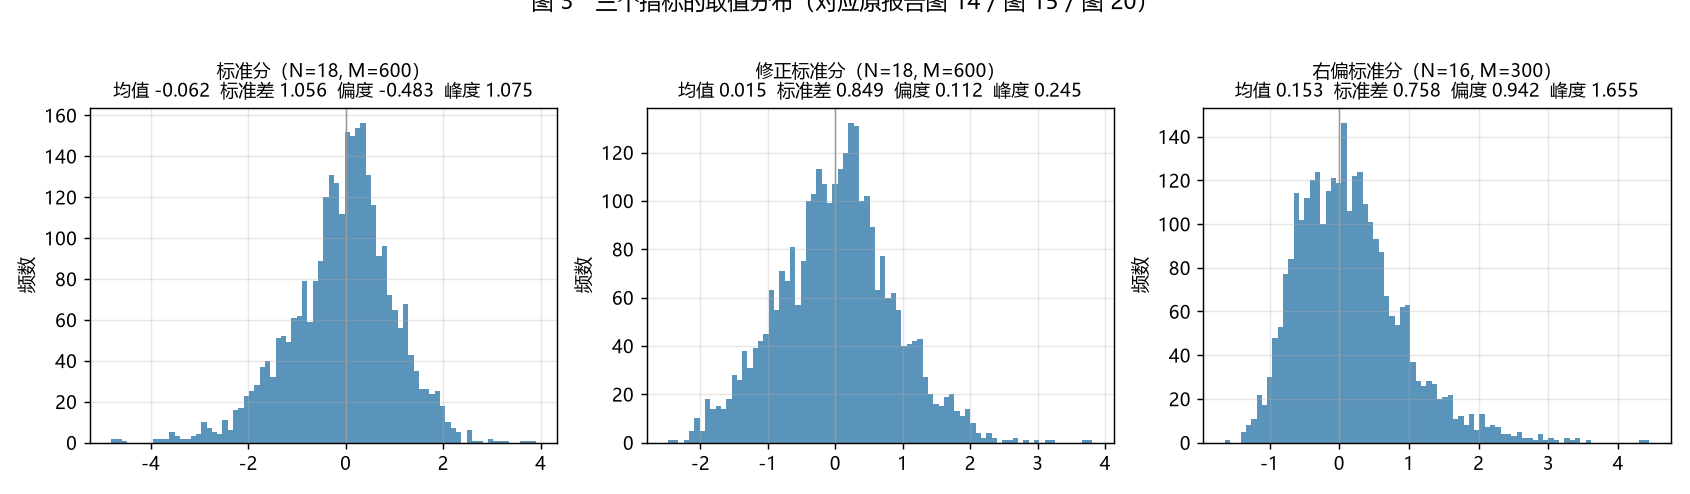
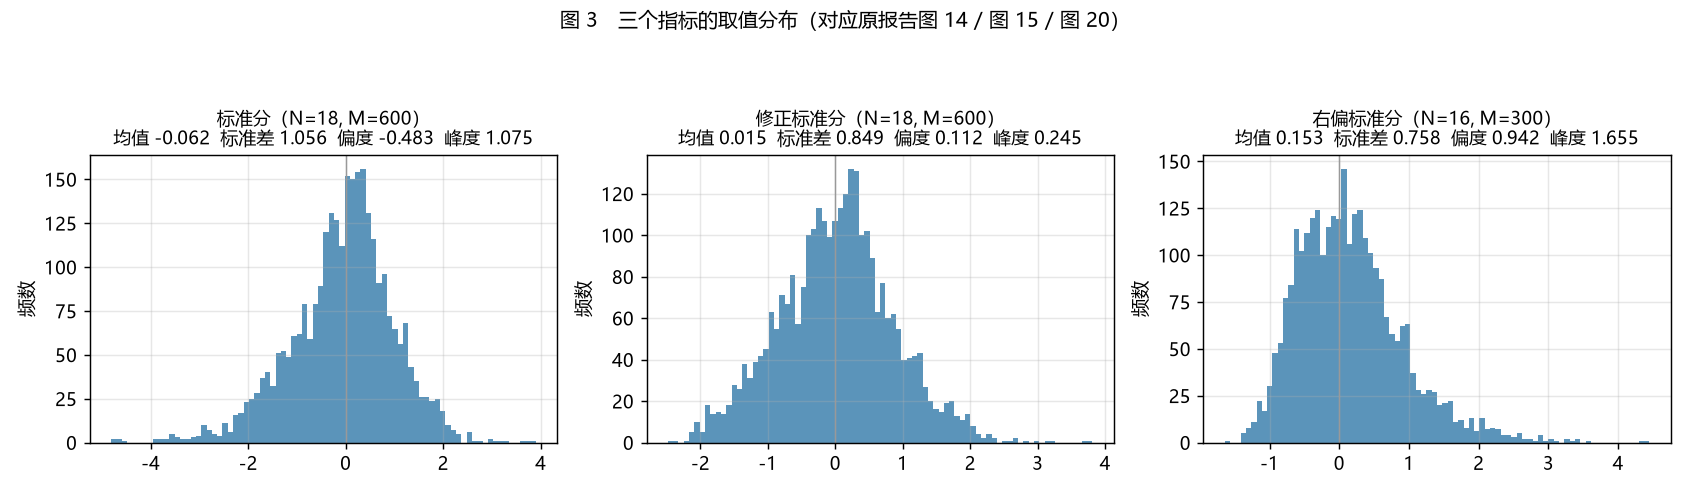
docs: 图表总标题裁切修复；自检补入修正标准分低阶矩
make_figures.py 的总标题改用 tight_layout(rect=...) 预留空间，修复图 3/4/5 标题被裁切的问题。

自检新增修正标准分序列的均值/标准差/偏度/峰度四项对照（峰度 0.245 与原报告精确吻合），表 3 通过率 8/8，总体 66/92。

diff --git a/make_figures.py b/make_figures.py
@@ -49,9 +49,13 @@ def _mpl():
         return None
 
 
-def _save(fig, plt, outdir: Path, name: str) -> Path:
+def _save(fig, plt, outdir: Path, name: str, top: float | None = None) -> Path:
+    """保存图；``top`` 给出为总标题预留的空间（tight_layout 的 rect 上边界）。"""
     path = outdir / name
-    fig.tight_layout()
+    if top is None:
+        fig.tight_layout()
+    else:
+        fig.tight_layout(rect=(0.0, 0.0, 1.0, top))
     fig.savefig(path, dpi=130)
     plt.close(fig)
     print(f"  已生成 {path}")
@@ -120,8 +124,9 @@ def fig_distribution(df, outdir, plt):
                      f"偏度 {v.skew():.3f}  峰度 {v.kurt():.3f}", fontsize=10)
         ax.set_ylabel("频数")
         ax.grid(**GRID)
-    fig.suptitle("图 3　三个指标的取值分布（对应原报告图 14 / 图 15 / 图 20）", y=1.02)
-    return _save(fig, plt, outdir, "fig03_distribution.png")
+    fig.suptitle("图 3　三个指标的取值分布（对应原报告图 14 / 图 15 / 图 20）",
+                 y=0.98, fontsize=11)
+    return _save(fig, plt, outdir, "fig03_distribution.png", top=0.90)
 
 
 # ---------------------------------------------------------------- 图 4
@@ -158,8 +163,8 @@ def fig_predictive(df, outdir, plt, width=0.2, horizon=10):
 
     fig.suptitle(f"图 4　指标对未来 10 日收益的预测性（等宽分箱，箱宽 {width}，"
                  f"共 {len(df)} 个交易日但独立观测仅约 {effective_sample_n(df['close'], horizon)} 个）",
-                 y=1.03, fontsize=11)
-    return _save(fig, plt, outdir, "fig04_predictive.png")
+                 y=0.99, fontsize=11)
+    return _save(fig, plt, outdir, "fig04_predictive.png", top=0.88)
 
 
 # ---------------------------------------------------------------- 图 5
@@ -192,8 +197,8 @@ def fig_m_sensitivity(df, outdir, plt):
         ax.set_title(col, fontsize=11)
         ax.legend(fontsize=8)
         ax.grid(**GRID)
-    fig.suptitle("图 5　M 参数敏感性：原报告与本复现（不计成本）", y=1.03, fontsize=11)
-    return _save(fig, plt, outdir, "fig05_m_sensitivity.png")
+    fig.suptitle("图 5　M 参数敏感性：原报告与本复现（不计成本）", y=0.99, fontsize=11)
+    return _save(fig, plt, outdir, "fig05_m_sensitivity.png", top=0.88)
 
 
 # ---------------------------------------------------------------- 入口

diff --git a/check_replication.py b/check_replication.py
@@ -96,6 +96,10 @@ def main() -> int:
     for nm, rep, ours in (("均值", -0.040, z.mean()), ("标准差", 1.063, z.std(ddof=1)),
                           ("偏度", -0.508, z.skew()), ("峰度", 1.105, z.kurt())):
         add("表3 标准分低阶矩", nm, "低阶矩", rep, ours)
+    mod = fam["modified"].dropna()
+    for nm, rep, ours in (("均值", 0.034, mod.mean()), ("标准差", 0.856, mod.std(ddof=1)),
+                          ("偏度", 0.080, mod.skew()), ("峰度", 0.245, mod.kurt())):
+        add("表3 修正标准分低阶矩", nm, "低阶矩", rep, ours)
 
     # ---------------- 表 2 / 表 4：四个基础策略 ----------------
     for name, sig in signals.items():

diff --git a/README.md b/README.md
@@ -180,16 +180,18 @@ R² = cov(high, low)² / (var(high) · var(low))
 | 偏度 | -0.488 | -0.471 | +0.017 |
 | 峰度 | 0.998 | 0.966 | -0.032 |
 
-**表 2　标准分序列低阶矩（N = 18，M = 600）**
+**表 2　标准分与修正标准分序列低阶矩（N = 18，M = 600）**
 
-| 统计量 | 原报告表 3 | 本复现 | 差异 |
-|---|---|---|---|
-| 均值 | -0.040 | -0.062 | -0.022 |
-| 标准差 | 1.063 | 1.056 | -0.007 |
-| 偏度 | -0.508 | -0.483 | +0.025 |
-| 峰度 | 1.105 | 1.075 | -0.030 |
+| 统计量 | 标准分（研报 / 复现） | 修正标准分（研报 / 复现） |
+|---|---|---|
+| 均值 | -0.040 / **-0.062** | 0.034 / **0.015** |
+| 标准差 | 1.063 / **1.056** | 0.856 / **0.849** |
+| 偏度 | -0.508 / **-0.483** | 0.080 / **0.112** |
+| 峰度 | 1.105 / **1.075** | **0.245 / 0.245** |
 
-斜率均值精确吻合（0.903），是判断 β 计算与数据口径无误的直接证据。
+斜率均值精确吻合到小数点后三位（0.903）；修正标准分的峰度与原报告完全相同
+（0.245），且修正后偏度由标准分的 -0.483 收敛至 +0.112，与原报告所述
+「修正后的标准分在偏度上有明显的向正态修正的效果」一致。
 
 ![图 3　三个指标的取值分布](report/fig03_distribution.png)
 
@@ -339,12 +341,12 @@ R² = cov(high, low)² / (var(high) · var(low))
 | 报告表 | 通过 / 可比 | 通过率 | 说明 |
 |---|---|---|---|
 | 表 1　斜率低阶矩 | 4 / 4 | **100.0%** | 均值精确吻合 |
-| 表 3　标准分低阶矩 | 4 / 4 | **100.0%** | |
+| 表 3　标准分与修正标准分低阶矩 | 8 / 8 | **100.0%** | 修正标准分峰度精确吻合 |
 | 表 2 / 表 4　基础策略 | 20 / 20 | **100.0%** | 五项指标全部通过 |
 | 表 5 / 表 6　优化策略 | 13 / 24 | 54.2% | 回撤系统性偏深 |
 | 表 7　参数敏感性 | 16 / 24 | 66.7% | 相关性优化净值偏高 |
 | 表 8　多空与多市场 | 5 / 12 | 41.7% | 含不可比项与参数不一致项 |
-| **合计** | **62 / 88** | **70.5%** | |
+| **合计** | **66 / 92** | **71.7%** | |
 
 自检脚本返回 0（核心项通过率 ≥ 95%）并输出结论：**核心复现成功**。
 
@@ -466,7 +468,7 @@ rsrs-timing/
 | `report/replicate_m_sensitivity.csv` | M 参数敏感性 |
 | `report/replicate_predictive.csv` | 预测性相关系数对照 |
 | `report/replicate_predictive_sensitivity.csv` | 预测性对分箱宽度的敏感性 |
-| `report/replicate_selfcheck.csv` | 自检明细（92 项逐项判定） |
+| `report/replicate_selfcheck.csv` | 自检明细（96 项逐项判定） |
 | `report/replicate_yearly.csv` | 分年度收益 |
 | `report/fig01_nav_indicators.png` | 图 1　四个基础策略净值 |
 | `report/fig02_nav_drawdown.png` | 图 2　标准分策略净值与回撤 |
